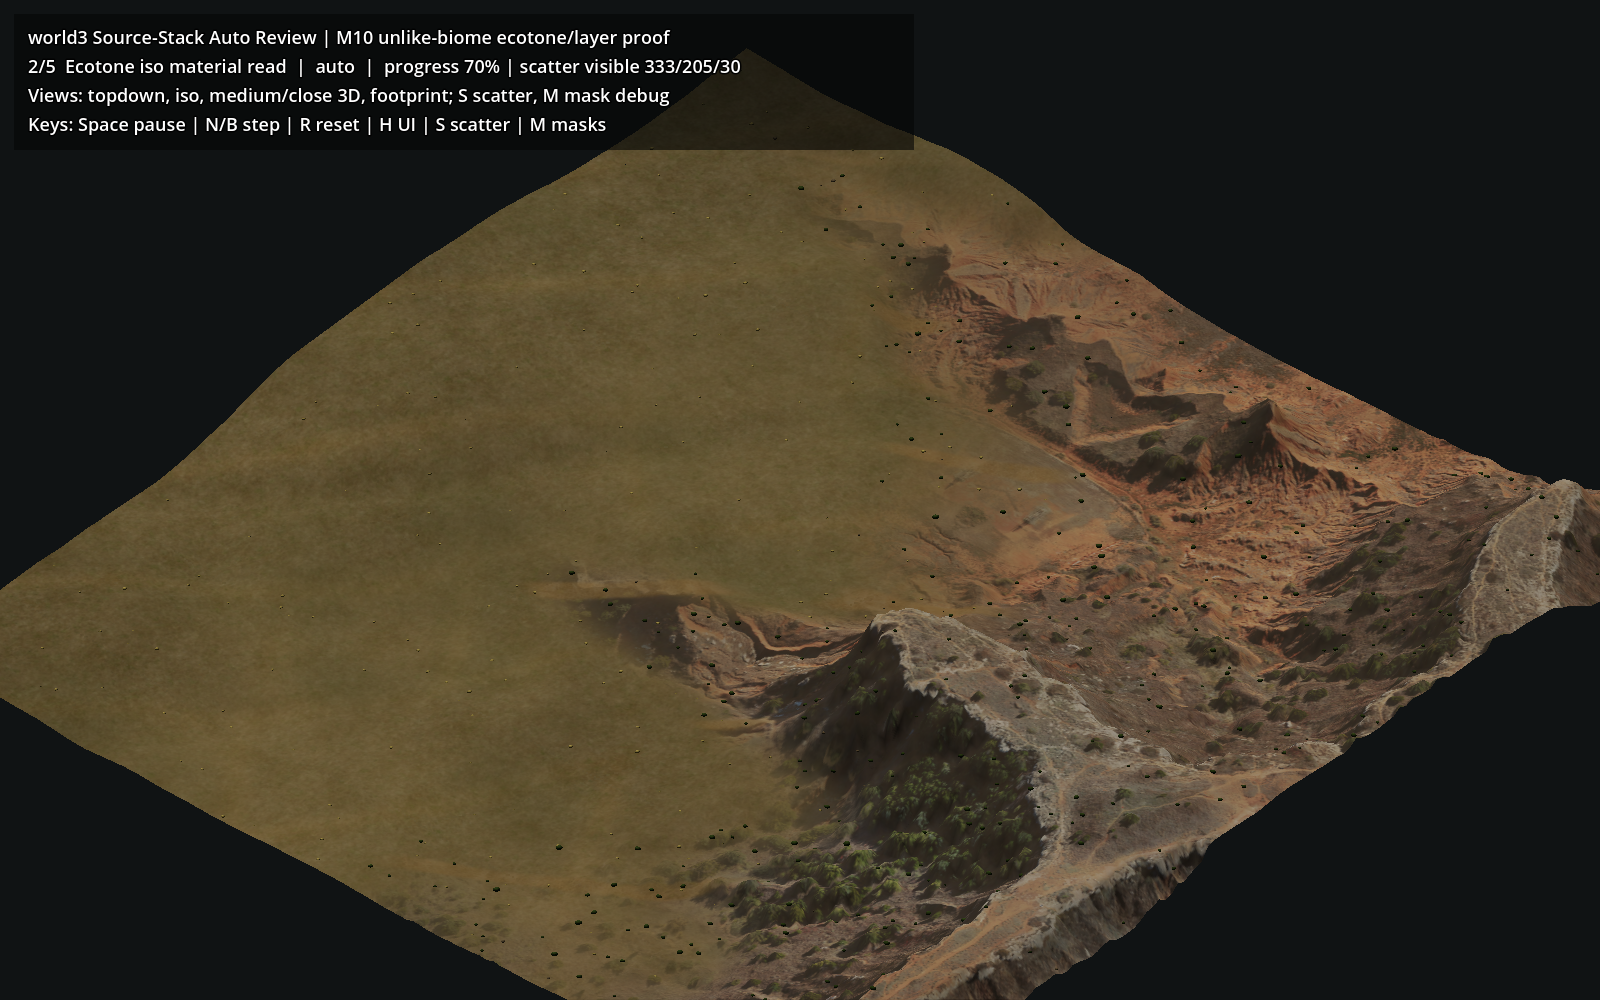
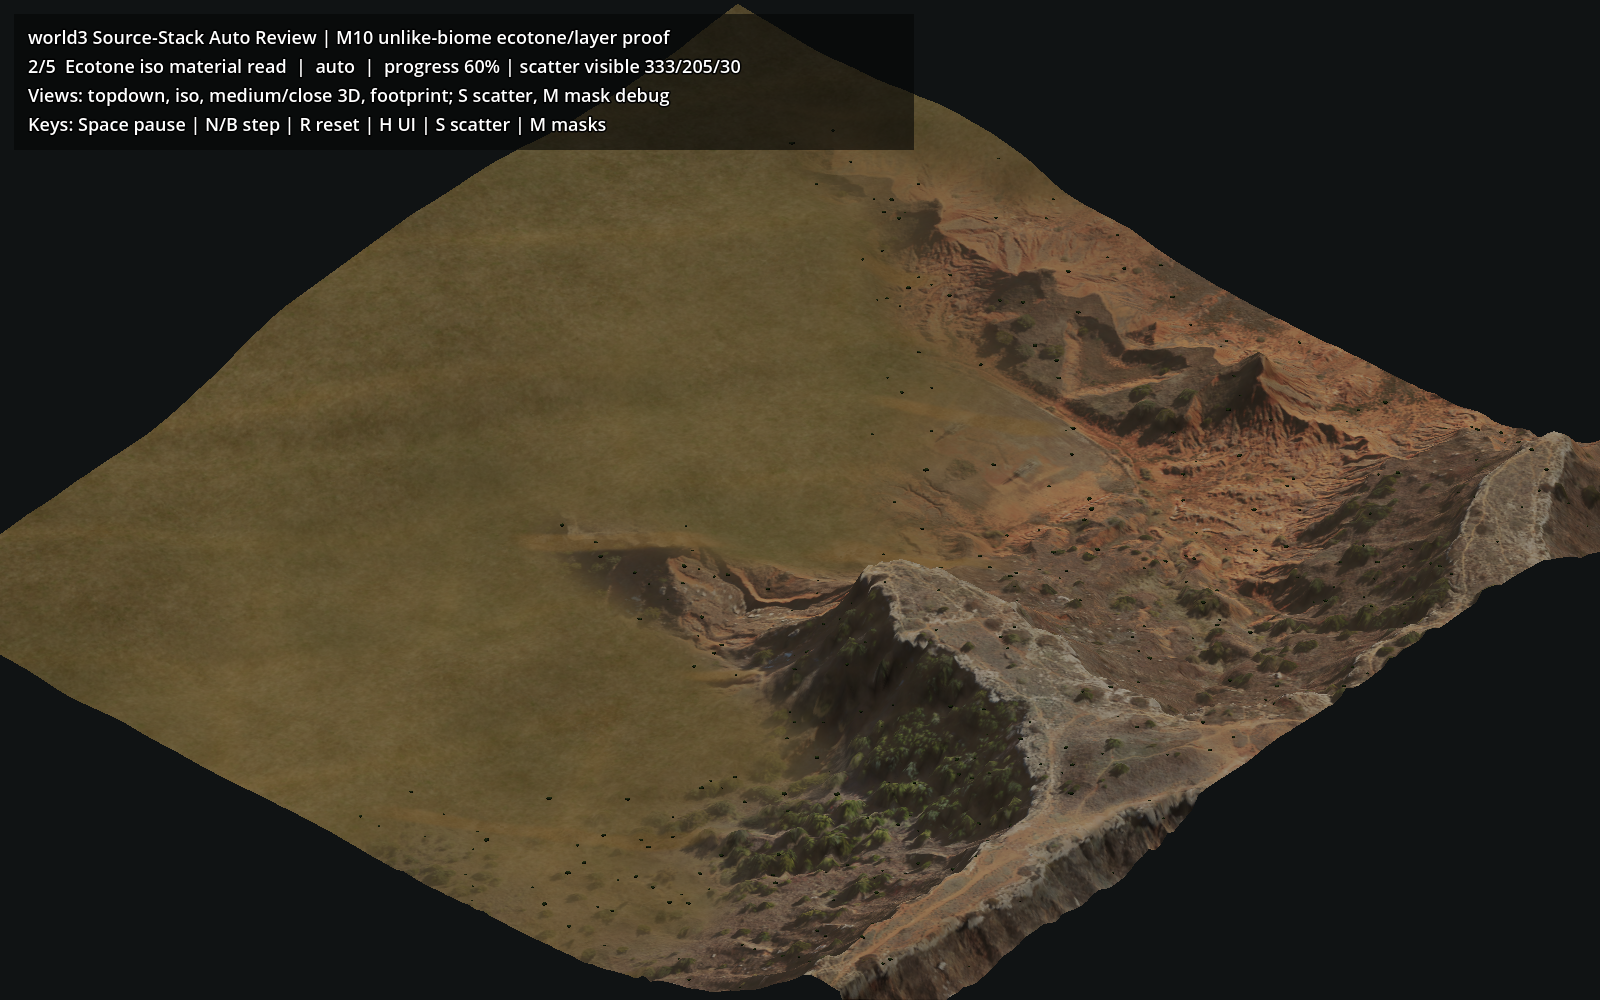
world3: refine ecotone scatter review assets

Changed region(s): [[0.0, 0.0, 1.0, 1.0]]

diff --git a/world3/docs/M10_ECOTONE_LAYER_PROOF_2026_05_09.md b/world3/docs/M10_ECOTONE_LAYER_PROOF_2026_05_09.md
@@ -55,6 +55,10 @@ Runtime additions:
 - `M` toggles the mask-debug overlay.
 - Topdown automatically hides 3D scatter so map/readability captures do not
   turn into speckle fields. Iso, medium, and close 3D keep scatter visible.
+- The first distance bands are in place: grass fades first, rocks and shrubs
+  remain visible farther into medium review.
+- Shrubs and rocks now use composite low-poly review shapes instead of one
+  sphere per mask point.
 
 Current deterministic scatter counts:
 
@@ -63,9 +67,10 @@ Current deterministic scatter counts:
 - rocks: `30`
 
 This is still prototype scatter. The important workflow step is that object
-breakup now comes from the same masks emitted by the ecotone pipeline. It is
-not hand-placed decoration and should be replaceable with higher-quality
-vegetation/rock assets later.
+breakup now comes from the same masks emitted by the ecotone pipeline, and the
+review scene now has first camera-band behavior. It is not hand-placed
+decoration and should be replaceable with higher-quality vegetation/rock assets
+later.
 
 ## Difference From M2 Texture-To-Texture
 
@@ -142,7 +147,7 @@ Accepted workflow read:
 
 Still not production-final:
 
-- scatter uses simple generated placeholder meshes, not authored production
+- scatter uses composite low-poly review meshes, not authored production
   vegetation/rock assets;
 - the right-side biome is still a procedural/Comfy material macro, not a true
   adjacent real-source terrain pull;
@@ -168,8 +173,8 @@ enough to promote as workflow evidence while keeping production caveats active.
 
 ## Next Work
 
-1. Replace placeholder scatter meshes with authored vegetation/rock assets and
-   add distance/scale bands for gameplay cameras.
+1. Replace low-poly review scatter with authored vegetation/rock assets and a
+   real scatter asset library.
 2. Add a runtime/debug view for splat weights and biome weights, not only
    scatter masks.
 3. Re-run with better grassland material candidates from the ComfyUI workflow.

diff --git a/world3/docs/DECISIONS.md b/world3/docs/DECISIONS.md
@@ -1198,3 +1198,24 @@ even at prototype stage.
 **Implication**: Future scatter work should replace placeholder meshes with
 authored assets and add real distance bands, but should keep mask-driven
 placement and topdown/iso/3D parity as part of the workflow contract.
+
+---
+
+## 2026-05-10 - Ecotone scatter review assets use composite shapes first
+
+**Decision**: Improve the M10 ecotone scatter proof with composite low-poly
+review shapes and simple per-class visibility ranges before starting M11.
+
+**Why**: The first scatter pass proved mask-driven placement but still read too
+much like one primitive per point. Composite shrub lobes, slab-style rocks, low
+grass clumps, and camera distance bands make the proof more useful for visual
+review without pretending we have production vegetation assets.
+
+**Evidence**:
+`world3/scripts/EcotoneScatterOverlay.gd` and refreshed captures under
+`world3/docs/captures/review/source_stack_ecotone_layer_tour_*.png`.
+
+**Implication**: The next scatter step is no longer "prove masks can place
+objects"; that is done. The next scatter step is an asset-library pass:
+authored scrub/grass/rock variants, per-biome density presets, and gameplay
+camera LOD.

diff --git a/world3/docs/M10_TERRAIN_SEAM_INTEGRATION_PROOF_2026_05_09.md b/world3/docs/M10_TERRAIN_SEAM_INTEGRATION_PROOF_2026_05_09.md
@@ -642,14 +642,16 @@ detail still needs a dedicated pass.
 2026-05-10 update: the first mask-driven scatter pass is live in
 `EcotoneScatterOverlay.gd` and `source_stack_ecotone_layer_tour.tscn`. It places
 deterministic shrubs, dry-grass clumps, and rocks from the emitted feature masks,
-and hides 3D scatter in topdown captures to avoid map-view speckle.
+and hides 3D scatter in topdown captures to avoid map-view speckle. A follow-up
+refinement replaced single-primitive placeholders with composite low-poly review
+shapes and simple per-class visibility ranges.
 
 Next M10 gates:
 
 1. carry the accepted macro-guided ecotone workflow into M11 corner/junction
    planning;
-2. replace placeholder scatter with production-grade vegetation/rock assets and
-   distance bands;
+2. replace low-poly review scatter with production-grade vegetation/rock assets
+   and gameplay LOD;
 3. keep gameplay camera/zoom bands explicit for visual closure;
 4. keep source-quality/procedural-quality vetoes active so weak macros are
    rejected before seam solving.

diff --git a/world3/docs/NEXT_SESSION_PROMPT.md b/world3/docs/NEXT_SESSION_PROMPT.md
@@ -171,8 +171,9 @@ pipeline-emitted masks in world space and places deterministic lightweight
 shrubs, dry-grass clumps, and rocks in the review scene. `S` toggles scatter,
 `M` toggles mask debug, and topdown LOD-hides 3D scatter to keep map captures
 clean. Current scatter counts are 333 shrubs, 205 grass clumps, and 30 rocks.
-This is mask-driven workflow evidence with placeholder meshes, not production
-vegetation.
+This is mask-driven workflow evidence with composite low-poly review meshes and
+simple per-class visibility ranges, not production vegetation. The next scatter
+step is an asset-library pass, not another proof that masks can place objects.
 
 Gameplay camera/zoom quality planning is now explicit:
 `world3/docs/GAMEPLAY_VIEW_QUALITY_PLAN_2026_05_09.md`. Future visual closure

diff --git a/world3/docs/M10_UNLIKE_BIOME_METHOD_REVIEW_2026_05_09.md b/world3/docs/M10_UNLIKE_BIOME_METHOD_REVIEW_2026_05_09.md
@@ -196,7 +196,9 @@ weights plus macro guidance rather than an RGB strip alone.
 2026-05-10 update: `EcotoneScatterOverlay.gd` adds first mask-driven review
 scatter from the emitted shrub, grass, rock, soil, wash, and no-scatter masks.
 It is deterministic and LOD-aware: topdown hides 3D scatter to avoid speckle,
-while iso/medium/close keep scatter visible. Remaining work is explicit
+while iso/medium/close keep scatter visible. A refinement pass moved the review
+assets from single primitives to composite low-poly shrubs, low grass clumps,
+slab rocks, and simple per-class visibility ranges. Remaining work is explicit
 biome/splat debug views, production-quality scatter assets, better grassland
 source candidates, and a fuller gameplay-zoom quality pass.
 

diff --git a/world3/docs/M7_M12_NEAR_ROADMAP.md b/world3/docs/M7_M12_NEAR_ROADMAP.md
@@ -300,6 +300,12 @@ LOD-hidden to keep map review clean. This closes the first scatter-mask
 population proof, but production vegetation/rock assets and distance bands
 remain later gates.
 
+2026-05-10 scatter refinement: the proof now uses composite low-poly review
+shapes and simple per-class visibility ranges. This improves the visual review
+read, but it is still not a production scatter system. The remaining scatter
+gate is an authored asset-library pass with biome density presets and gameplay
+camera LOD.
+
 ## M11 - Corner And Junction Transitions
 
 **Goal**: handle three-way or corner junctions after pairwise transitions work.
